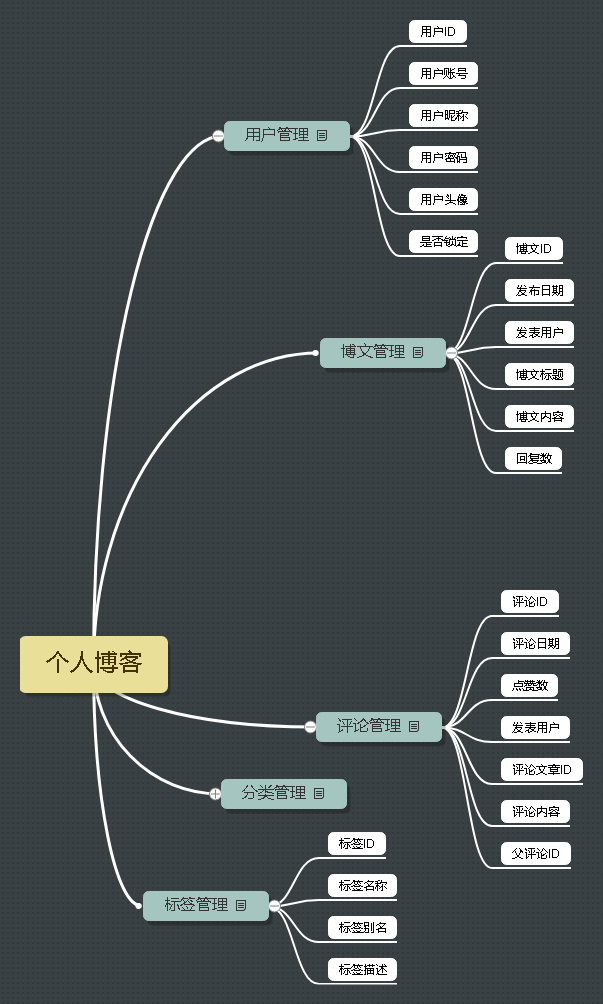
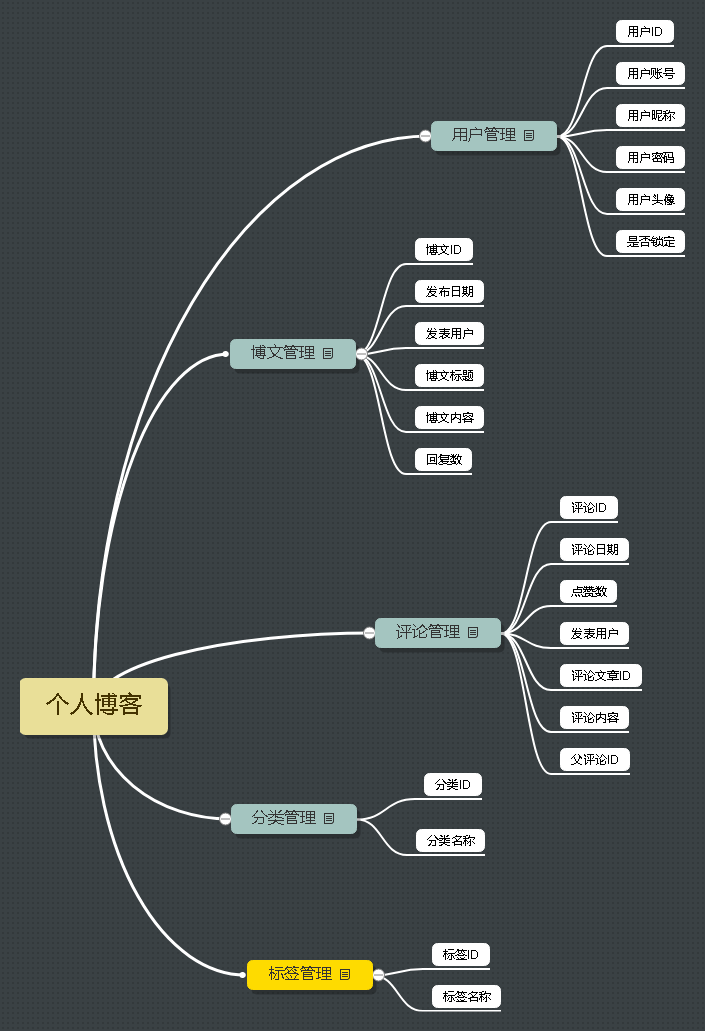
修改博客加入回显标签 加入分类管理页面 标签管理页面

diff --git a/src/main/resources/static/js/edit.js b/src/main/resources/static/js/edit.js
@@ -23,8 +23,8 @@ $(function () {
     $('#blogSubmit').click(function () {
         uid = $('#uid').val();
         bTitle = $('#blogName').val();
-        content = contentEditor.getHTML()
-        sort = $('#blogSortName').val()
+        content = contentEditor.getHTML();
+        sort = $('#blogSortName_sele').val();
         tags = $('#blogTagsName').val();
         if (uid == null || uid.length === 0) {
              alert("请登录");
@@ -62,10 +62,12 @@ $(function () {
                 dataType: "json",                 //返回的数据类型
                 success: function (data) {          //data就是返回的json类型的数据
                     if (data.msg == "true") {
-                        console.log("ok");
                         swal("提交成功", "请确定", "success");
-                        //上传成功 清空标题 博文
-                        console.log(sort + tags)
+                        //上传成功 清空标题 博文 标签
+                        $("#blogName").val("")
+                        //因为jquery.editable-select.js 所以改变了 id
+                        $('#blogSortName_sele').val("c")
+                        $('#blogTagsName').val("")
                         contentEditor.clear()
                     }
                 },
@@ -92,8 +94,10 @@ $(function () {
                     if (data.msg == "true") {
                         console.log("ok");
                         swal("修改成功", "请确定", "success");
-                        //上传成功 清空标题 博文
-                        console.log($("#blogName").val(""))
+                        //上传成功 清空标题 博文 标签 默认c 为默认分类
+                        $("#blogName").val("")
+                        $('#blogSortName').val("c")
+                        $('#blogTagsName').val("")
                         contentEditor.clear()
                         $("#pTitle").text("发布博客")
                     }
@@ -105,7 +109,7 @@ $(function () {
         }
     };
 
-
+    //可输入 下拉框
     $('#blogSortName').editableSelect({
         bg_iframe: true,
 

diff --git a/src/main/resources/templates/admin/sort.html b/src/main/resources/templates/admin/sort.html
@@ -7,7 +7,7 @@
     <meta http-equiv="X-UA-Compatible" content="IE=edge,chrome=1" />
 
 
-    <title>标签管理</title>
+    <title>分类管理</title>
     <meta content='width=device-width, initial-scale=1.0, maximum-scale=1.0, user-scalable=0' name='viewport' />
     <meta name="viewport" content="width=device-width" />
 
@@ -36,6 +36,17 @@
                 </div>
                 <div th:replace="~{common/common::headright}"></div>
             </div>
+            <table class="container table table-bordered">
+                <tr class="row text-center">
+                    <td class="col-md-6">分类ID</td>
+                    <td class="col-md-6">分类名称</td>
+                </tr>
+
+                <tr class="row text-center" th:each="sort : ${blogSorts}">
+                    <td class="col-md-6" th:text="${sort.getSortId()}"></td>
+                    <td class="col-md-6" th:text="${sort.getSortName()}"></td>
+                </tr>
+            </table>
         </nav>
 
         <div class="content" style="margin: 3vh 15px">

diff --git a/src/main/resources/templates/admin/edit.html b/src/main/resources/templates/admin/edit.html
@@ -85,7 +85,8 @@
 
 						<div class="form-group">
 							<label  for="blogTagsName" style="font-size: 2vh">标签</label>
-							<input type="text" id="blogTagsName" class="form-control" style="padding: 0;margin: 0">
+							<input type="text" th:if="${session.blog} != null" th:value="${session.blog.getBlogTagsName()}" id="blogTagsName" placeholder="如有多个,请用空格隔开" class="form-control" style="padding: 0;margin: 0">
+							<input type="text" th:if="${session.blog} == null" id="blogTagsName" placeholder="如有多个,请用空格隔开" class="form-control" style="padding: 0;margin: 0">
 						</div>
 					</form>
 					<!--md-->

diff --git a/src/main/java/com/qht/service/impl/BlogPostServiceImp.java b/src/main/java/com/qht/service/impl/BlogPostServiceImp.java
@@ -3,10 +3,12 @@ package com.qht.service.impl;
 import com.qht.dao.BlogPostMapper;
 import com.qht.entity.BlogPost;
 import com.qht.entity.BlogSort;
+import com.qht.entity.BlogTags;
 import com.qht.service.BlogPostService;
 import org.springframework.beans.factory.annotation.Autowired;
 import org.springframework.stereotype.Service;
 
+import java.util.Arrays;
 import java.util.List;
 
 /**
@@ -48,6 +50,27 @@ public class BlogPostServiceImp implements BlogPostService {
 
     @Override
     public int updateBlog(BlogPost blogPost) {
+        //修改博客 需要修改标签 修改标签关系
+        String tags =  blogPost.getBlogTagsName();
+        String blogTagsName[] = tags.split("\\s+"); //标签分解
+        BlogTags blogTags;
+        //删除所有关系 嘿嘿
+        blogPostMapper.delTags(blogPost.getBlogId());
+
+        if(!"".equals(tags) && tags.length() > 0){
+
+            for(String tag : blogTagsName){
+                blogTags = queryTagsByName(tag);
+                //没有就插入
+                if(null == blogTags){
+                    blogPostMapper.insertTags(tag);
+                    blogTags = queryTagsByName(tag);
+                }
+                //插入关系表
+                blogPostMapper.insertBlogTagsRelation(blogPost.getBlogId(),blogTags.getTagsId());
+            }
+        }
+
         return blogPostMapper.updateBlog(blogPost);
     }
 
@@ -63,12 +86,47 @@ public class BlogPostServiceImp implements BlogPostService {
 
     @Override
     public int insertSort(String sortName) {
-        return blogPostMapper.insertSort(sortName);
+        //判断是否有分类标签 没有文字符号限制
+        if(!"".equals(sortName) && sortName.length() > 0){
+            int count = querySort(sortName);
+            if(count == 0){
+                return blogPostMapper.insertSort(sortName);
+            }
+        }
+        return 0;
     }
 
     @Override
     public List<BlogSort> queryAllSort() {
         return blogPostMapper.queryAllSort();
+    }
+
+    @Override
+    public int insertTags(String tags,String title) {
+        String blogTagsName[] = tags.split("\\s+"); //标签分解
+        BlogTags blogTags;
+
+        if(!"".equals(tags) && tags.length() > 0){
+
+            for(String tag : blogTagsName){
+                blogTags = queryTagsByName(tag);
+                //没有就插入
+                if(null == blogTags){
+                     blogPostMapper.insertTags(tag);
+                     blogTags = queryTagsByName(tag);
+                }
+                //根据标题获取id
+                int blogId = blogPostMapper.queryBlogIDByTitle(title);
+                //插入关系表
+                blogPostMapper.insertBlogTagsRelation(blogId,blogTags.getTagsId());
+            }
+        }
+        return 0;
+    }
+
+    @Override
+    public BlogTags queryTagsByName(String tags) {
+        return blogPostMapper.queryTagsByName(tags);
     }
 
 

diff --git a/src/main/java/com/qht/dao/BlogPostMapper.java b/src/main/java/com/qht/dao/BlogPostMapper.java
@@ -2,6 +2,7 @@ package com.qht.dao;
 
 import com.qht.entity.BlogPost;
 import com.qht.entity.BlogSort;
+import com.qht.entity.BlogTags;
 import org.apache.ibatis.annotations.Mapper;
 import org.springframework.stereotype.Repository;
 
@@ -39,11 +40,17 @@ public interface BlogPostMapper {
     List<BlogPost> select();
 
     /**
-     * 查询一条
+     * 根据Id查询一条
      *
      * @return
      */
     BlogPost queryOne(String id);
+
+    /**
+     * 根据标题查询id
+     * @return
+     */
+    int queryBlogIDByTitle(String title);
 
     /**
      * 更新博客
@@ -83,4 +90,40 @@ public interface BlogPostMapper {
      * @return
      */
     List<BlogSort> queryAllSort();
+
+    /**
+     * 插入标签
+     * @param tags
+     * @return
+     */
+    int insertTags(String tags);
+
+    /**
+     * 根据标签名查询
+     * @param tags
+     * @return
+     */
+    BlogTags queryTagsByName(String tags);
+
+    /**
+     * 将博客id 和 标签 id 关系对应
+     * @param blogId
+     * @param tagId
+     * @return
+     */
+    int insertBlogTagsRelation(int blogId,int tagId);
+
+    /**
+     * 查询关系标签个数
+     * @param blogId
+     * @return
+     */
+    int queryCountTagsByBlogID(int blogId);
+
+    /**
+     * 删除指定博客ID的所有关系
+     * @param blogId
+     * @return
+     */
+    int delTags(int blogId);
 }

diff --git a/src/main/java/com/qht/controller/admin/BlogController.java b/src/main/java/com/qht/controller/admin/BlogController.java
@@ -18,6 +18,7 @@ import javax.servlet.http.HttpServletRequest;
 import javax.servlet.http.HttpServletResponse;
 import javax.servlet.http.HttpSession;
 import java.io.File;
+import java.util.Arrays;
 import java.util.HashMap;
 import java.util.List;
 import java.util.Map;
@@ -89,15 +90,14 @@ public class BlogController {
     public String saveBlog(BlogPost blogPost, Model model){
         System.out.println(blogPost);
         String sortName = blogPost.getBlogSortName();
-        //判断是否有分类标签 没有文字符号限制
-        if(!"".equals(sortName) && sortName.length() > 0){
-            int count = blogPostService.querySort(sortName);
-            System.out.println(count);
-            if(count == 0){
-                blogPostService.insertSort(sortName);
-            }
-        }
+        String blogTagsName = blogPost.getBlogTagsName();
+
+        //插入分类标签
+        blogPostService.insertSort(sortName);
         blogPostService.insertBlog(blogPost);
+        //插入标签
+        blogPostService.insertTags(blogTagsName,blogPost.getBlogTitle());
+
 
         Map<String,String> map = new HashMap<>();
         map.put("msg", "true");

diff --git a/src/main/java/com/qht/service/BlogPostService.java b/src/main/java/com/qht/service/BlogPostService.java
@@ -2,6 +2,8 @@ package com.qht.service;
 
 import com.qht.entity.BlogPost;
 import com.qht.entity.BlogSort;
+import com.qht.entity.BlogTags;
+import com.qht.entity.BlogTagsRelation;
 
 import java.util.List;
 
@@ -70,4 +72,20 @@ public interface BlogPostService {
      * @return
      */
     List<BlogSort> queryAllSort();
+
+    /**
+     * 插入标签
+     * @param tags
+     * @return
+     */
+    int insertTags(String tags,String title);
+
+    /**
+     * 根据标签名查询
+     * @param tags
+     * @return
+     */
+    BlogTags queryTagsByName(String tags);
+
+
 }

diff --git a/src/main/java/com/qht/entity/BlogTagsRelation.java b/src/main/java/com/qht/entity/BlogTagsRelation.java
@@ -1,0 +1,22 @@
+package com.qht.entity;
+
+/**
+ * @ClassName blogTagsRelation
+ * @Author q
+ * @Date 2021/9/5 14:05
+ * @Version 1.0
+ */
+public class BlogTagsRelation {
+    private int relationId;
+    private int blogId;
+    private int tagsId;
+
+    public BlogTagsRelation() {
+    }
+
+    public BlogTagsRelation(int relationId, int blogId, int tagsId) {
+        this.relationId = relationId;
+        this.blogId = blogId;
+        this.tagsId = tagsId;
+    }
+}

diff --git a/src/main/java/com/qht/controller/admin/AdminController.java b/src/main/java/com/qht/controller/admin/AdminController.java
@@ -50,7 +50,9 @@ public class AdminController {
      * @return
      */
     @GetMapping("sort")
-    public String toSort(){
+    public String toSort(Model model){
+        List<BlogSort> blogSorts = blogPostService.queryAllSort();
+        model.addAttribute("blogSorts",blogSorts);
         return "admin/sort";
     }
     @GetMapping("tags")
